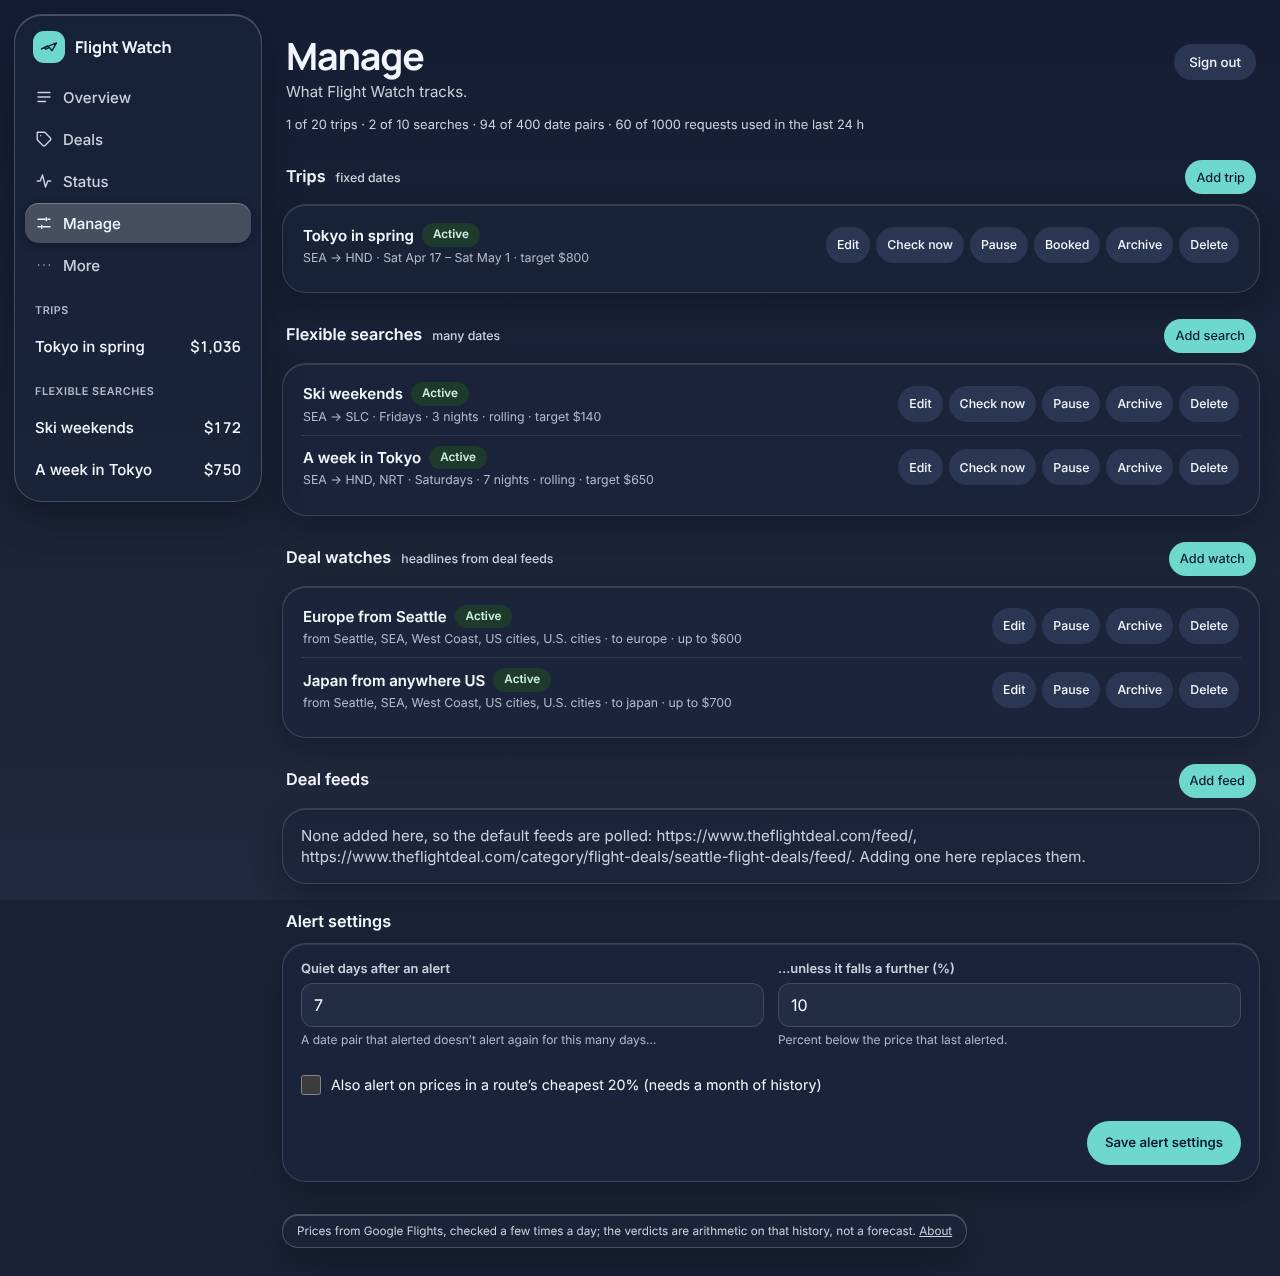
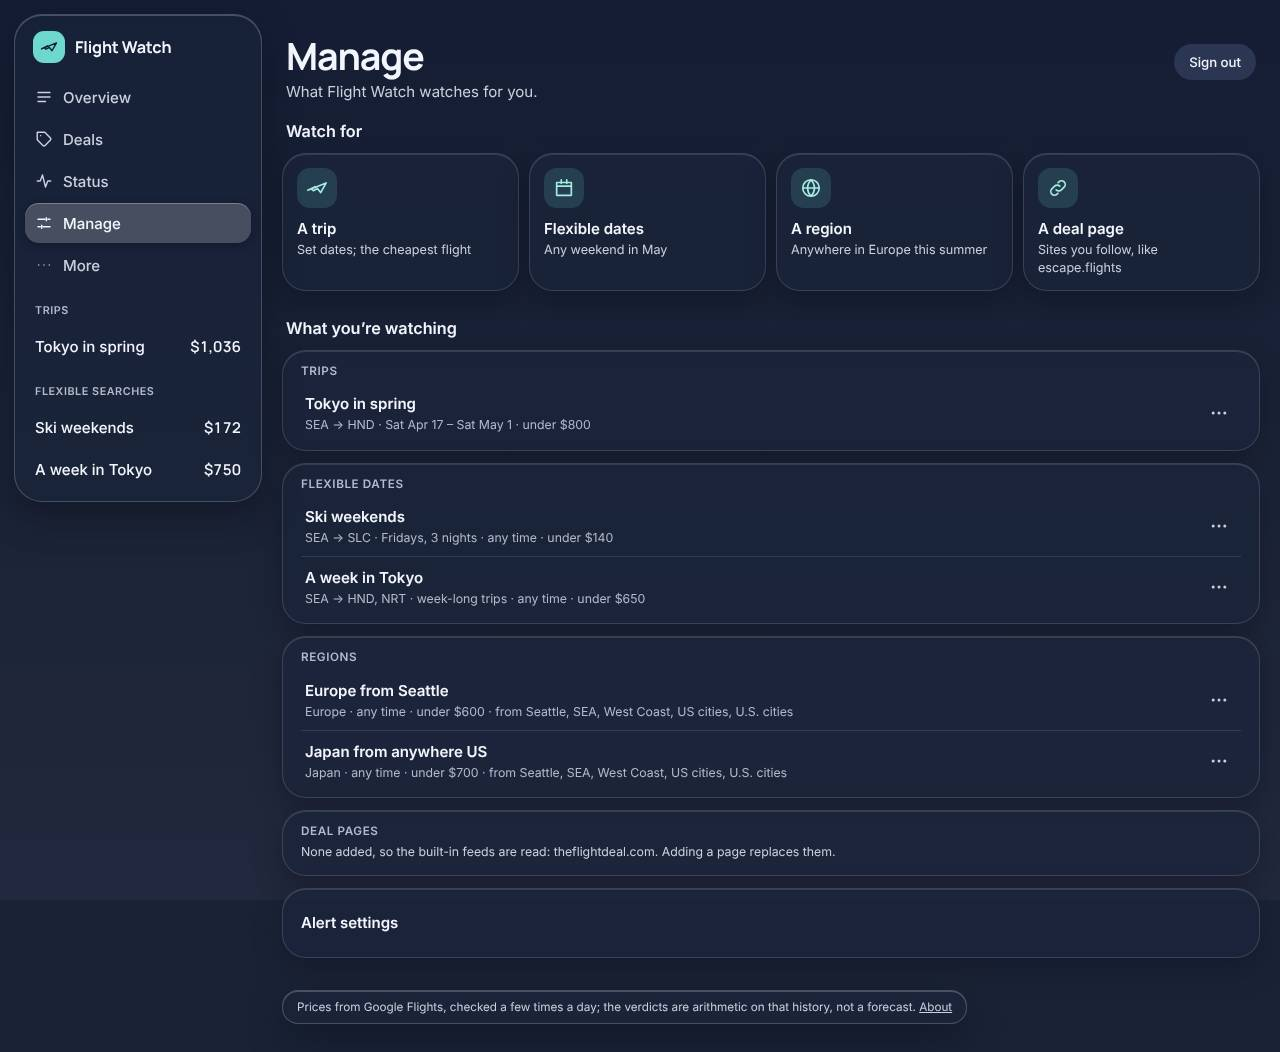
Manage, simpler: docs, screenshots, wording fixes
The user guide describes the four ways to watch; the plan's decisions log records
the redesign, regions from deal pages, every post on Deals, and deal pages without
feeds. Month menus use short names so they fit a phone; a week-long search no
longer reads "a weeks".

Claude-Session: https://claude.ai/code/session_01N1mUcF6VzKjJVFwEnekHCA

diff --git a/frontend/src/lib/manage/validate.ts b/frontend/src/lib/manage/validate.ts
@@ -100,10 +100,10 @@ function money(errors: Errors, field: string, text: string): number | null {
 
 // -- months --------------------------------------------------------------------------
 
-/** "2027-05" → "May 2027". */
-export function monthLabel(ym: string): string {
+/** "2027-05" → "May 2027" (short: "Dec 2026", so the menus fit a phone). */
+export function monthLabel(ym: string, short = false): string {
 	const [y, m] = ym.split('-').map(Number);
-	return `${MONTH_NAMES[m - 1]} ${y}`;
+	return `${(short ? MONTHS : MONTH_NAMES)[m - 1]} ${y}`;
 }
 
 /** The next `count` months from today's, as YYYY-MM, for the month menus. */
@@ -333,7 +333,7 @@ export function searchName(d: SearchDraft, place: (code: string) => string = (c)
 			: d.length === 'long'
 				? 'long weekends'
 				: d.length === 'week'
-					? 'weeks'
+					? 'week-long trips'
 					: 'trips';
 	let when = '';
 	if (d.when === 'months' && YM.test(d.month_from) && YM.test(d.month_to)) {

diff --git a/frontend/src/lib/manage/SearchForm.svelte b/frontend/src/lib/manage/SearchForm.svelte
@@ -191,7 +191,7 @@
 				<div class="field">
 					<label for="search-month-from">From</label>
 					<select id="search-month-from" bind:value={d.month_from}>
-						{#each fromChoices as m (m)}<option value={m}>{monthLabel(m)}</option>{/each}
+						{#each fromChoices as m (m)}<option value={m}>{monthLabel(m, true)}</option>{/each}
 					</select>
 				</div>
 				<div class="field">
@@ -202,7 +202,7 @@
 						aria-invalid={show('month_to') ? 'true' : undefined}
 					>
 						{#each fromChoices.filter((m) => m >= d.month_from) as m (m)}
-							<option value={m}>{monthLabel(m)}</option>
+							<option value={m}>{monthLabel(m, true)}</option>
 						{/each}
 					</select>
 					{#if show('month_to')}<p class="err">{show('month_to')}</p>{/if}

diff --git a/frontend/src/routes/manage/+page.svelte b/frontend/src/routes/manage/+page.svelte
@@ -310,14 +310,19 @@
 		cents == null ? '' : ` · under ${money(cents, cur)}`;
 	const title = (r: string) => r.replace(/\b\w/g, (c) => c.toUpperCase());
 
+	const LENGTH_WORDS: Record<string, string> = {
+		weekend: 'weekends',
+		long: 'long weekends',
+		week: 'week-long trips'
+	};
 	function searchLength(s: Search): string {
-		for (const v of Object.values(LENGTHS))
+		for (const [k, v] of Object.entries(LENGTHS))
 			if (
 				v.nights === s.nights &&
 				v.dows.length === s.depart_dows.length &&
 				v.dows.every((x) => s.depart_dows.includes(x))
 			)
-				return v.label.toLowerCase() + 's';
+				return LENGTH_WORDS[k];
 		return `${weekdays(s.depart_dows)}, ${nights(s.nights)}`;
 	}
 	function searchWhen(s: Search): string {

diff --git a/docs/using.md b/docs/using.md
@@ -51,12 +51,26 @@ The chips at the top filter everything below to one destination.
 
 ## Changing what is tracked
 
-Trips, flexible searches, deal watches and feeds live in the database. Change them
-on the app's **Manage** page: sign in with the owner password, then add, edit, pause,
-resume, archive or delete. Every save re-expands the date grid at once, and saving an
-active trip or search queues a fetch, so its first price arrives within a minute or so.
-A search's form says how many date pairs it tracks before you save it; a deal watch's
-form can try a headline. Deleting keeps the prices already collected.
+What is watched lives in the database. Change it on the app's **Manage** page: sign
+in with the owner password and pick one of four ways to watch.
+
+| Way | You give | What happens |
+|---|---|---|
+| **A trip** | where to, the day you leave and come back (or one way), optionally an alert price | its price is checked a few times a day until it departs; the verdict says book or wait |
+| **Flexible dates** | where to (one or more), how long (weekend, long weekend, a week, or custom days and nights), when (months, any time, or a date range), optionally an alert price | every matching date is priced and the cheapest is shown; the form says how many dates that is before you save |
+| **A region** | a region (Europe, Japan, Hawaii…) or places you name, optionally months or a season, optionally a maximum price | posts on your deal pages from home to the region, in those months, under the price, alert you. Fares come from deal pages, not Google |
+| **A deal page** | a deal site's page you follow, or its feed | it is read every few hours; every new post shows on **Deals**, and posts that match a region, trip or flexible search alert you |
+
+Anything else (where you fly from, stops, a name, notes, the words a deal must use for
+home) is under **More options**; names are made up when you leave them empty. Tap
+something in the list to change it; its **⋯** menu checks it now, pauses, resumes,
+marks a trip booked or deletes it (prices already collected are kept).
+
+A deal page with no feed (escape.flights' category pages, for example) is read from the
+page itself: each heading that links to a post is a post. The first read only records
+what is there, so old posts don't alert; new ones do. A post that names travel months
+("[Nov-May, Aug]", "summer") only matches a region or trip for those months; one that
+names none matches any.
 
 The same can be done from a terminal with a YAML file (see
 `config/seed.example.yaml`), handy for loading many at once or keeping a copy:

diff --git a/docs/PLAN.md b/docs/PLAN.md
@@ -279,6 +279,31 @@ Decisions log (add a line when a milestone departs from this document, with the 
 - 2026-11-15 (M7): "Manage" is the fifth tab on phones and in the rail for everyone. Form
   inputs are 16 px (phones zoom into smaller ones) and controls at least 40 px tall; an e2e
   test checks every form at 380 px for both and for sideways scrolling. The frontend is 0.7.0.
+- 2026-11-16 (after M7, owner's request): the Manage page was too complicated, so it is
+  rebuilt around four ways to watch, in the owner's words: a trip (set dates), flexible
+  dates (any weekend in May), a region (anywhere in Europe in the summer) and a deal page
+  (a site followed, e.g. escape.flights). Forms ask only what matters; origin, stops, names
+  and notes are under More options, and names are made up. Flexible dates offer Weekend
+  (FRI, 2 nights), Long weekend (THU/FRI, 3), A week (SAT, 7) or Custom, and months, any
+  time or dates. Rows open their form; a ⋯ menu holds check now, pause, resume, booked and
+  delete. Archive is no longer offered in the app (the API keeps it).
+- 2026-11-16 (owner's choice): a region is matched against deal pages and feeds, not priced
+  on Google (a region has dozens of airports; the budget is about 50 requests a day). Deal
+  watches gain `months` (migration 005); a post that names months must name one of them,
+  and one that names none matches. Months are read from capitalised month names, ranges
+  ("Nov-May" wraps) and seasons.
+- 2026-11-16 (owner's choice): every new post from a deal page shows on Deals (`/api/deals`
+  now lists all posts; `?matched=true` and the overview keep matched ones); alerts go only
+  for matches. Active trips and flexible searches are matched too
+  (`watches.deal_matchers`): origin city or code, destination label, city or code, under
+  the target, in the trip's months or the search's window.
+- 2026-11-16: escape.flights has no feed (its `/feed/` answers with a web page), so a deal
+  source can be a page (`deal_feeds.kind`, migration 005). Saving an address fetches it
+  once: a feed is kept as a feed; a page that advertises a feed (`<link rel=alternate>`,
+  comment feeds skipped) is saved as that feed; otherwise headings linking to same-site
+  posts are read as posts, and a page with none is refused. A page's first good read
+  records its posts as already alerted, because they carry no dates. `export-config` writes
+  pages under `deals.pages` and watch `months`; `import-config` reads both.
 
 ## How to work from this document
 
